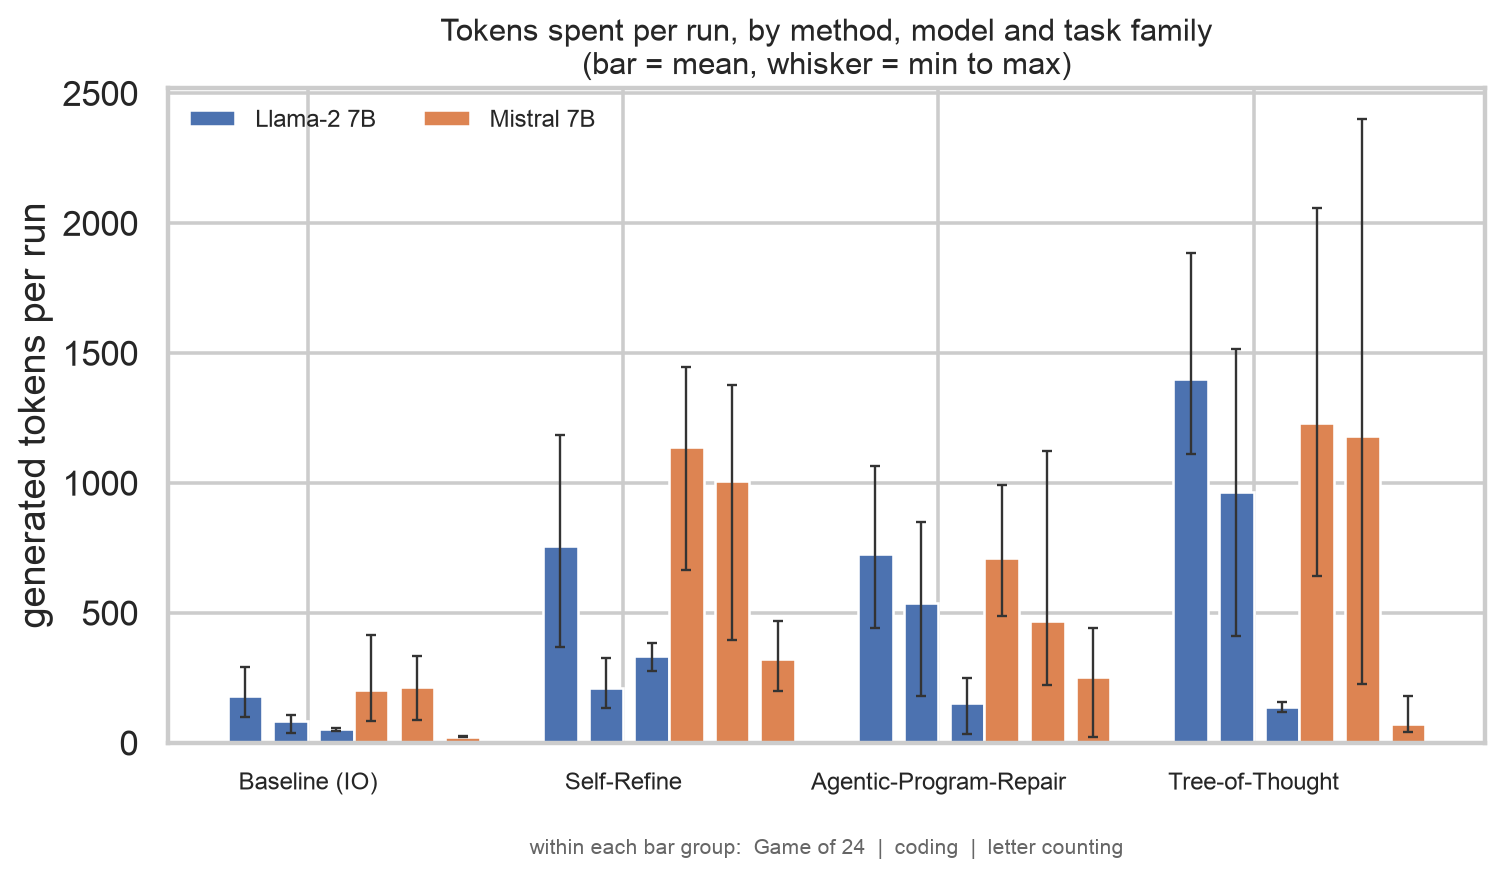
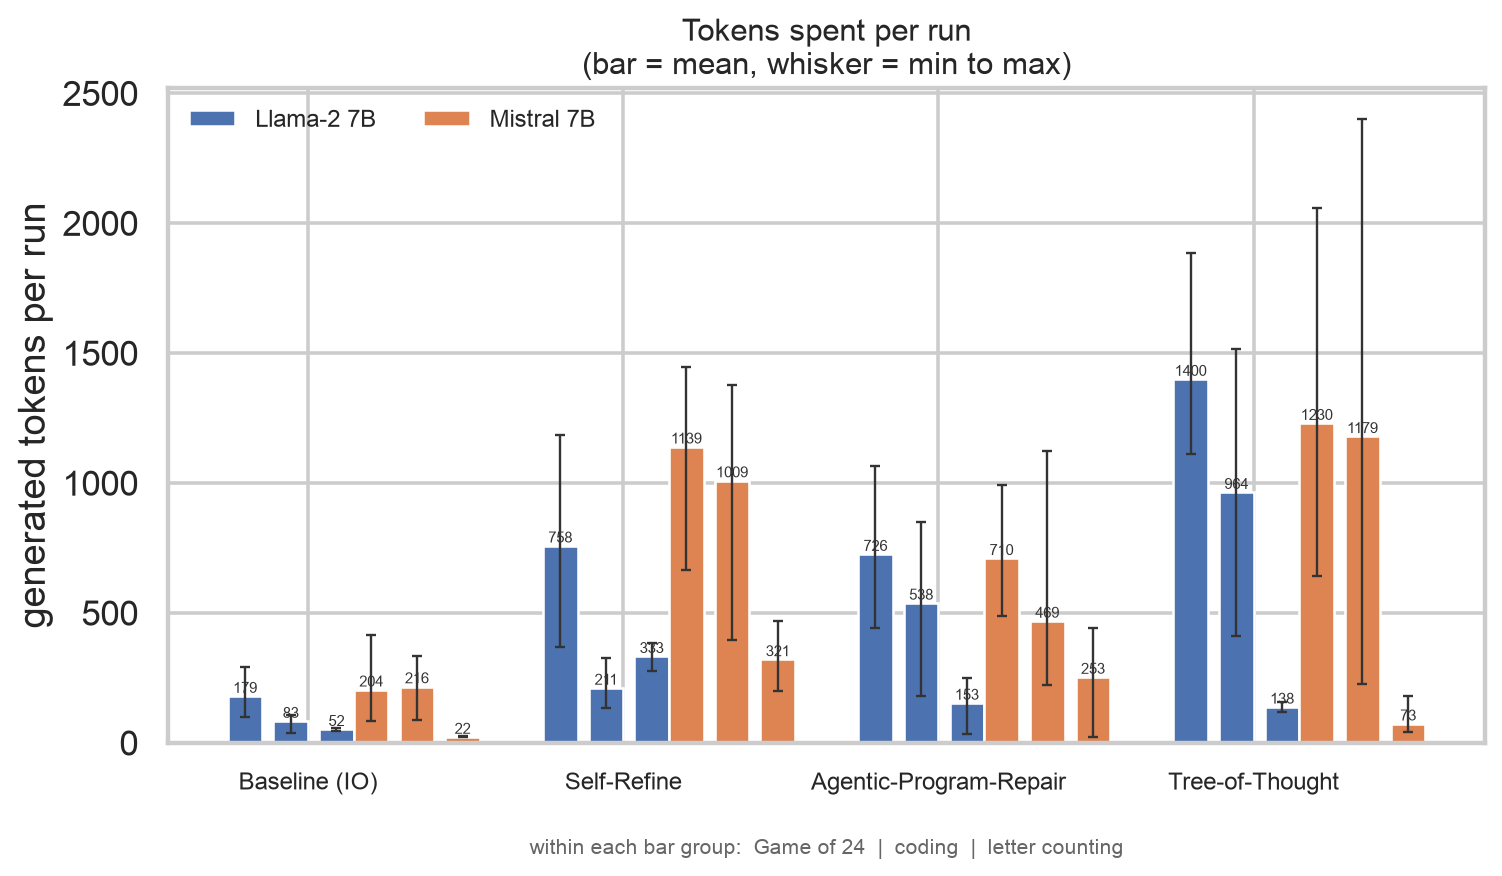
Use canonical Beam theme, add wall-time figure and slide, drop unhelpful token plot

diff --git a/slides/themes/beam.css b/slides/themes/beam.css
@@ -1,4 +1,7 @@
 /* @theme beam */
+/* author: rnd195 github.com/rnd195 */
+/* beam license: GNU GPLv3 github.com/rnd195/my-marp-themes/blob/live/licenses/LICENSE_beam */
+/* beamer license: GNU GPLv2 github.com/rnd195/my-marp-themes/blob/live/licenses/LICENSE_GPLv2 */
 
 @import "default";
 
@@ -6,13 +9,14 @@
   font-family: "CMU Sans Serif", "Segoe UI", Helvetica, sans-serif;
   --main: #1f38c5;
   --secondary: #141414;
+  --font-size: 0.6em;
 }
 
+/* --- BOTTOM BAR --- */
 section {
   background-color: #ffffff;
-  /* bottom two-coloured bar in base64 svg */
-  background-image:
[1 lines of base64/hex data omitted]
+  /* Bottom two-coloured bar in base64 - translates to SVG */
[1 lines of base64/hex data omitted]
   background-repeat: no-repeat;
   background-position: center bottom;
   background-size: 150% 1em;
@@ -20,10 +24,8 @@ section {
 }
 
 header {
-  font-size: 0.6em;
-  /* this text-align is important */
+  font-size: var(--font-size);
   text-align: right;
-  /* I don't like this absolute positioning, but it works */
   position: absolute;
   top: 96.2%;
   width: 100%;
@@ -33,9 +35,8 @@ header {
 }
 
 footer {
-  font-size: 0.6em;
+  font-size: var(--font-size);
   position: absolute;
-  /* this text-align is important */
   text-align: left;
   top: 96.2%;
   width: 100%;
@@ -44,11 +45,30 @@ footer {
   color: white;
 }
 
-h1, h2, h3, h4, h5, h6 {
+/* Formatting page numbers  */
+section::after {
+  font-size: var(--font-size);
+  /* From github.com/yhatt/marp/issues/263 */
+  content: attr(data-marpit-pagination) " / " attr(data-marpit-pagination-total);
+  position: absolute;
+  text-align: right;
+  top: 96.2%;
+  width: 100%;
+  right: 0;
+  left: -0.5em;
+  color: white;
+}
+
+/* --- TITLES --- */
+h1,
+h2,
+h3,
+h4,
+h5,
+h6 {
   color: #141414;
 }
 
-/* only apply to the first occurrence of h1 */
 h1:nth-of-type(1) {
   font-family: "CMU Bright", "Segoe UI Semibold";
   color: #ffffff;
@@ -63,39 +83,27 @@ h1:nth-of-type(1) {
   text-indent: 0.5em;
 }
 
+/* --- TEXT CHANGES --- */
 code {
   background-color: rgba(100, 100, 100, 0.2);
 }
 
-/* formatting page numbers  */
-section::after {
-  font-size: 0.6em;
-  /* https://github.com/yhatt/marp/issues/263 */
-  content: attr(data-marpit-pagination) ' / ' attr(data-marpit-pagination-total);
-  position: absolute;
-  text-align: right;
-  top: 96.2%;
-  width: 100%;
-  right: 0;
-  left: -0.5em;
-  color: white;
+mark {
+  background-color: #f5db7e;
 }
 
-/* inline math was too large wrt text */
+/* Inline math was too large with respect to text */
 .katex {
-  font: normal 1.05em KaTeX_Main, 'Times New Roman', serif
+  font:
+    normal 1.05em KaTeX_Main,
+    "Times New Roman",
+    serif;
 }
 
-/* the "center" keyword centers the image - may break, careful */
-img[alt~="center"] {
-  display: block;
-  margin: 0 auto;
-}
-
-/* || SECTION CLASS: title */
-/* title page - only to be used as for a single slide */
+/* --- CUSTOM CLASSES AND KEYWORDS --- */
 /* <!-- _class: title --> */
-section.title>h1 {
+/* Transforms a slide to a title page - intended for the first slide */
+section.title > h1 {
   font-family: "CMU Bright", "Segoe UI Semibold";
   color: #ffffff;
   background-color: var(--main);
@@ -111,16 +119,23 @@ section.title>h1 {
   height: auto;
 }
 
-/* remake this to be positioned with respect to h1 */
-section.title>p {
+section.title > p {
   position: relative;
   text-align: center;
   top: 35px;
 }
 
-/* || SECTION CLASS: tinytext */
-/* new class that makes p, ul, and blockquote text smaller */
-/* might be useful for the References slide, use <!-- _class: tinytext --> */
-section.tinytext>p, section.tinytext>ul, section.tinytext>blockquote {
+/* <!-- _class: tinytext --> */
+/* Makes p, ul, and blockquote text smaller to fit more text on a slide */
+section.tinytext > p,
+section.tinytext > ul,
+section.tinytext > blockquote {
   font-size: 0.65em;
+}
+
+/* img keyword "center" */
+/* Centers an image, from github.com/marp-team/marpit/issues/141#issuecomment-473204518 */
+img[alt~="center"] {
+  display: block;
+  margin: 0 auto;
 }

diff --git a/plot.py b/plot.py
@@ -8,7 +8,7 @@ Every figure breaks the result down by task family (Game of 24 / coding / letter
 model, so no bar or box pools three very different tasks together:
     visuals/success-rate.png    solve rate: grouped by method, then model, then 3 family bars
     visuals/tokens.png          tokens per run, same grouping
-    visuals/tokens-solved.png   the same, keeping only runs that solved the task
+    visuals/wall-time.png       wall-clock seconds per run, same grouping
 """
 import argparse
 import json
@@ -114,8 +114,9 @@ def fig_success_rate(df, outdir, path="success-rate.png"):
     return _save(fig, outdir, path)
 
 
-def fig_tokens(df, outdir, path="tokens.png", solved_only=False):
-    """Same grouping (method -> model -> family), showing the spread of generated tokens
+def fig_per_run(df, outdir, metric="gen_tokens", ylabel="generated tokens per run",
+                title="Tokens spent per run", path="tokens.png"):
+    """Same grouping (method -> model -> family), showing the spread of a per-run metric
     as a bar to the mean plus a min-max whisker."""
     models = sorted(df["model"].unique())
     fig, ax = plt.subplots(figsize=(10, 5))
@@ -124,50 +125,25 @@ def fig_tokens(df, outdir, path="tokens.png", solved_only=False):
         for pi, mod in enumerate(models):
             x0 = mi + (pi - .5) * (3 * bar_w + 2 * pad)
             for fi, k in enumerate(KINDS):
-                vals = df[(df.method == m) & (df.kind == k) & (df.model == mod)]["gen_tokens"]
-                if solved_only:
-                    vals = df[(df.method == m) & (df.kind == k) & (df.model == mod) &
-                              df.solved]["gen_tokens"]
+                vals = df[(df.method == m) & (df.kind == k) & (df.model == mod)][metric]
                 x = x0 + fi * (bar_w + pad)
                 if len(vals):
                     mean = vals.mean()
                     ax.bar(x, mean, bar_w, color=MCOLOR[mod], edgecolor="white", linewidth=1.1)
                     ax.errorbar(x, mean, yerr=[[mean - vals.min()], [vals.max() - mean]],
                                 fmt="none", ecolor="#333", elinewidth=1, capsize=2)
-                else:
-                    ax.text(x, 25, "0", ha="center", fontsize=7.5, color="#999")
+                    if mean > 0:
+                        ax.text(x, mean, f"{mean:.0f}", ha="center", va="bottom",
+                                fontsize=6.5, color="#333")
     ax.set_xticks(range(len(METHODS)))
     ax.set_xticklabels([NAMES[m] for m in METHODS], fontsize=10)
-    ax.set_ylabel("generated tokens per run")
-    ax.set_title("Tokens spent per run, by method, model and task family\n"
-                 "(bar = mean, whisker = min to max)", fontsize=13)
+    ax.set_ylabel(ylabel)
+    ax.set_title(f"{title}\n(bar = mean, whisker = min to max)", fontsize=13)
     ax.legend(handles=[Patch(facecolor=MCOLOR[mod], edgecolor="white", label=MODELS[mod])
                        for mod in models],
               title="", loc="upper left", frameon=False, fontsize=10, ncol=2)
     ax.text(.5, -.17, "within each bar group:  Game of 24  |  coding  |  letter counting",
             transform=ax.transAxes, ha="center", fontsize=9, color="#666")
-    return _save(fig, outdir, path)
-
-
-def fig_cost_quality(g, outdir, path="cost-quality.png"):
-    """Aggregate view, kept for reference: solve rate against tokens spent per solved task."""
-    fig, ax = plt.subplots(figsize=(9, 6))
-    plot = g.dropna(subset=["tok_per_solve"])
-    for m in METHODS:
-        sub = plot[plot.method == m]
-        if len(sub):
-            ax.plot(sub["tok_per_solve"], sub["rate"], marker="o", ls="", color="#333",
-                    markersize=15, markeredgecolor="black", markeredgewidth=.7,
-                    label=NAMES[m], zorder=3)
-    for _, r in plot.iterrows():
-        ax.annotate(f"{NAMES[r['method']].split(' ')[0]}\n{MODELS[r['model']]}",
-                    (r["tok_per_solve"], r["rate"]), xytext=(0, 14),
-                    textcoords="offset points", ha="center", fontsize=8, color="#444")
-    ax.set(xscale="log", xlabel="generated tokens per solved task (log scale)",
-           ylabel="share of all 17 tasks solved", ylim=(-.06, 1.05))
-    ax.set_title("Quality against cost, all task families pooled\n"
-                 "(the per-family figures are the honest view)", fontsize=12)
-    ax.legend(fontsize=9.5, loc="upper left", frameon=True)
     return _save(fig, outdir, path)
 
 
@@ -268,8 +244,9 @@ def main():
     if not a.no_figure:
         os.makedirs(a.outdir, exist_ok=True)
         fig_success_rate(df, a.outdir)
-        fig_tokens(df, a.outdir)
-        fig_tokens(df, a.outdir, solved_only=True, path="tokens-solved.png")
+        fig_per_run(df, a.outdir)
+        fig_per_run(df, a.outdir, metric="seconds", ylabel="wall-clock seconds per run",
+                    title="Wall-clock time per run", path="wall-time.png")
     table(df, g)
     if a.tables:
         markdown(df, g, a.tables, a.results)

diff --git a/slides/deck.md b/slides/deck.md
@@ -4,25 +4,6 @@ theme: beam
 paginate: true
 header: 'Bruce Li, Andy Wang, Cecilia Xu'
 footer: 'UCLA Samueli School of Engineering'
-style: |
-  :root { font-family: "Helvetica Neue", Helvetica, Arial, sans-serif; }
-  section { font-size: 19px; }
-  /* the Beam theme parks header/footer at the very top and bottom edges in white; lift them
-     inside the slide and tint them so they are actually readable */
-  header {
-    top: 0.45em; left: 0; right: 1.6em; bottom: auto; width: auto;
-    color: #6b7280; text-align: right; font-size: 0.55em;
-  }
-  footer {
-    top: auto; bottom: 0.5em; left: 1.6em; right: auto; width: auto;
-    color: #6b7280; text-align: left; font-size: 0.55em;
-  }
-  h1:nth-of-type(1) { height: auto; padding: 0.12em 0.5em; font-size: 0.78em; }
-  h2 { font-size: 1.35em; }
-  table { font-size: 0.85em; }
-  th, td { padding: 2px 8px; }
-  img { display: block; margin: 6px auto 0 auto; }
-  section.appendix h2 { color: #6b7280; }
 ---
 
 <!--
@@ -160,9 +141,29 @@ Notes:
 
 <!--
 Notes:
-- Bar height is the mean, the whisker spans min to max, so the spread is visible without a box plot.
-- "0" labels mark method/model/family combinations that never solved anything - themselves a finding.
+- Bar height is the mean over every run, whisker spans min to max, so both level and spread are visible.
+- Bars are short wherever a method answered briefly, which is exactly the Baseline signature: it cannot spend more, because it never gets a second attempt.
 - The headline of the deck: cost is a property of model-plus-method, not of the method alone.
+-->
+
+---
+
+# Wall-clock time
+
+![w:950](visuals/wall-time.png)
+
+**Findings:**
+- **Baseline is 5× faster than Self-Refine** (2.1s vs 10.0s per run) and both are stable across models — time tracks *how many calls* a method makes, not how good it is.
+- **Agentic-PR is the cheapest of the deliberate methods** (6.1s) and is *faster on the stronger model* (4.9s vs 7.3s): better models need fewer retries.
+- **Tree-of-Thought is slowest** (11.2s) and its cost is model-dependent again — 13.7s on Llama-2 vs 8.7s on Mistral.
+- **Game of 24 dominates every method's time budget** (11.3s mean) even though it is almost never solved.
+
+<!--
+Notes:
+- Same grouping as the other two figures: method, then model, then the three families.
+- The caveat to state out loud: these runs were 6-at-a-time against 4 serving slots, so the absolute numbers include queueing. The ordering is the honest part.
+- The useful framing: wall-clock is a proxy for API cost. Self-Refine spends 342s total across its 34 runs; Baseline spends 73s. That gap is the price of the critique loop.
+- Notice Agentic-PR beats Self-Refine on time despite making attempts: it stops as soon as tests pass, which is usually attempt 1 or 2 (mean 2.5 calls).
 -->
 
 ---
@@ -172,7 +173,8 @@ Notes:
 1. **Verification is the win, not the tree.** Tests turn extra compute into correct answers. More thinking without a check mostly buys longer wrong answers.
 2. **The methods are not interchangeable.** Agentic-PR owns counting and coding; Tree-of-Thought's best case is a harder task on a stronger model.
 3. **Self-Refine is the weakest link here.** Most expensive, least accurate — worse than one-shot on every family.
-4. **Cost depends on the model as much as the method.** Tree-of-Thought cost 9× more per solve on Llama-2 than on Mistral, with identical code.
+4. **Time tracks the loop, not the result.** Baseline 2.1s per run, Agentic-PR 6.1s, Self-Refine 10.0s, Tree-of-Thought 11.2s — and the extra time does not buy accuracy for the two model-driven methods.
+5. **Cost depends on the model as much as the method.** Tree-of-Thought cost 9× more per solve on Llama-2 than on Mistral, with identical code.
 
 *Caveats: 34 runs per method is directional, not statistical. Two 7B models from 2023. Game of 24 was out of reach, so the math family contributes almost nothing. Timings include GPU queue time.*
 

diff --git a/README.md b/README.md
@@ -302,7 +302,7 @@ its own instead of squeezed into a grid. Every datapoint stays separated by task
 |---|---|
 | `visuals/success-rate.png` | Solve rate, grouped by method, then model, then the 3 task families |
 | `visuals/tokens.png` | Tokens per run, same grouping (bar = mean, whisker = min-max) |
-| `visuals/tokens-solved.png` | The same, keeping only runs that solved the task |
+| `visuals/wall-time.png` | Wall-clock seconds per run, same grouping |
 | `visuals/TABLES.md` | The tables as markdown, including a per-task breakdown |
 
 Each method shows two model bars (one colour per model), and each of those splits into three skinny
@@ -408,7 +408,7 @@ plot.py     the figures: solve rate, cost per solve, per family, token placement
 
 papers/     the three papers, plus my extracted text copies for grepping
 data/       results.json (laptop reference), results-full.json (GPU run), smoke.json, answers-*.md
-visuals/    success-rate.png, tokens.png, tokens-solved.png, TABLES.md
+visuals/    success-rate.png, tokens.png, wall-time.png, TABLES.md
 slides/     deck.md (Marp, Beam theme vendored in slides/themes/beam.css)
 ```
 
